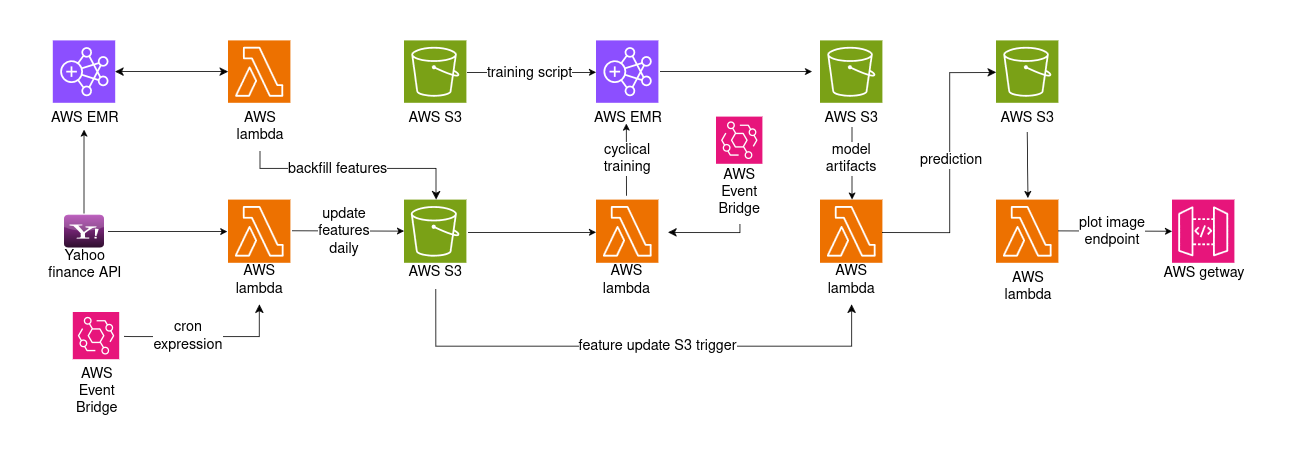
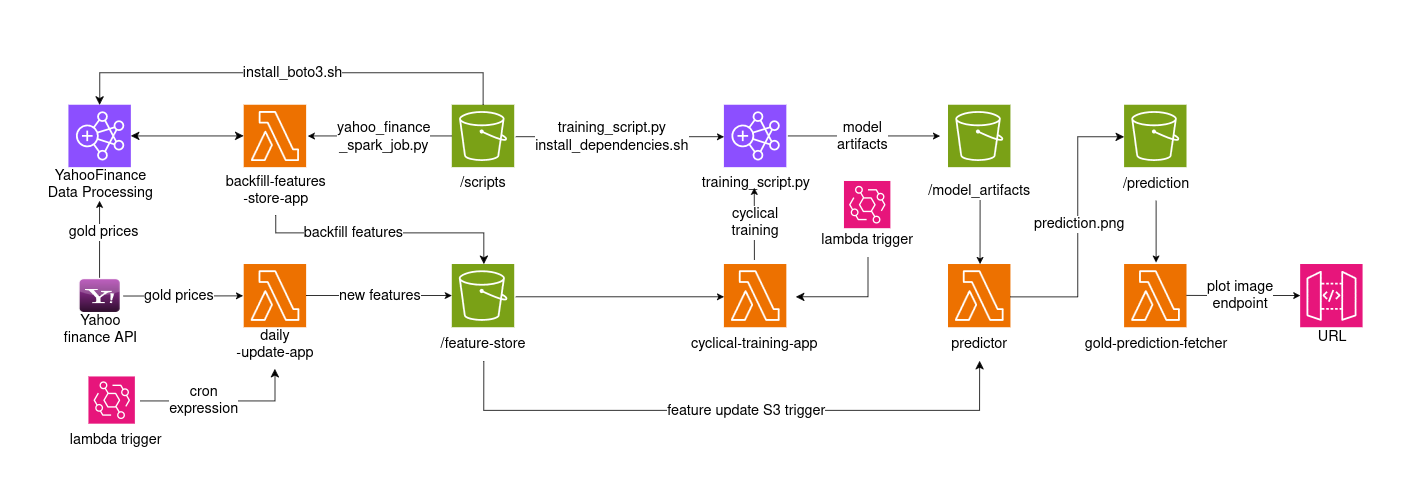
add readme + architecture map

Changed region(s): [[0.031, 0.0603, 0.9907, 0.9052], [0.743, 0.0603, 0.8669, 0.3922], [0.3406, 0.8147, 0.6811, 0.8448]]

diff --git a/predictor/app/lambda_function.py b/predictor/app/lambda_function.py
@@ -99,7 +99,7 @@ def predict(gold_model, scaler_gold):
 
 # Process gold data from parquet files in S3 directory (divided by year)
 def gold_data_processing(scaler, look_back):
-    parquet_dir = "output/"
+    parquet_dir = "feature-store/"
     local_parquet_dir = "/tmp/gold_data"
 
     if not os.path.exists(local_parquet_dir):
@@ -114,7 +114,7 @@ def gold_data_processing(scaler, look_back):
         # Generate a unique file name
         unique_file_name = f"{uuid.uuid4().hex}.parquet"
         local_file_path = os.path.join(local_parquet_dir, unique_file_name)
-        if (key != 'output/_SUCCESS'):
+        if (key != 'feature-store_SUCCESS'):
             s3_client.download_file(bucket_name, key, local_file_path)
             print(f"Downloaded {key} to {local_file_path}")
 

diff --git a/README.md b/README.md
@@ -1,0 +1,179 @@
+# Gold Prices Predictor - README
+
+## Overview
+This project predicts gold prices using a machine learning (Tensorflow) model deployed on a transient AWS EMR instance. The architecture includes:
+
+1. **ECR Repositories:**
+   - **gold-backfill-feature-store-app:** Runs an EMR job to create initial features in the bucket under `feature-store/`.
+   - **gold-daily-update-app:** Updates the feature store with data from the Yahoo Finance API.
+   - **gold-predictor-app:** Downloads the model and scaler, makes predictions, and saves them in `prediction/`.
+
+2. **Lambda Functions:**
+   - **gold-cyclical-training-app:** Runs an EMR job every 30 days to retrain the model and save artifacts in `model-artifacts/`.
+   - **gold-prediction-image-fetcher:** Fetches prediction plots from the bucket and serves them via an API Gateway.
+
+3. **S3 Bucket:**
+   - **gold-prices-predictor:** Stores scripts, data, model artifacts, and predictions.
+
+4. **Scripts (saved in `scripts/` in the bucket):**
+   - EMR job definition for `gold-backfill-feature-store-app`.
+   - Installation script for boto3.
+   - EMR script for cyclical training.
+   - Dependency installation script for model execution on EMR.
+
+5. **IAM Roles:**
+   - **EMR_EC2_DefaultRole**
+   - **EMR_DefaultRole**
+
+---
+
+## Setup Instructions
+
+### 1. **Pre-requisites**
+Ensure you have the following installed:
+- AWS CLI
+- Docker
+- Python 3.x (for local testing)
+
+### 2. **Create and Configure the S3 Bucket**
+1. Create an S3 bucket named `gold-prices-predictor` (or update references if using a different name).
+   ```bash
+   aws s3 mb s3://gold-prices-predictor
+   ```
+2. Upload the necessary scripts to the bucket:
+   ```bash
+   aws s3 cp ./scripts/emr_job_definition.py s3://gold-prices-predictor/scripts/
+   aws s3 cp ./scripts/install_boto3.sh s3://gold-prices-predictor/scripts/
+   aws s3 cp ./scripts/emr_cyclical_training.py s3://gold-prices-predictor/scripts/
+   aws s3 cp ./scripts/install_dependencies.sh s3://gold-prices-predictor/scripts/
+   ```
+
+### 3. **Set Up IAM Roles and Policies**
+1. **EMR_EC2_DefaultRole:**
+   Attach the `AmazonS3FullAccess` and `AmazonEMRRoleforEC2` policies.
+   ```bash
+   aws iam create-role --role-name EMR_EC2_DefaultRole --assume-role-policy-document file://emr_ec2_trust_policy.json
+   aws iam attach-role-policy --role-name EMR_EC2_DefaultRole --policy-arn arn:aws:iam::aws:policy/AmazonS3FullAccess
+   aws iam attach-role-policy --role-name EMR_EC2_DefaultRole --policy-arn arn:aws:iam::aws:policy/service-role/AmazonEMRRoleforEC2
+   ```
+
+2. **EMR_DefaultRole:**
+   Attach the `AmazonS3FullAccess` and `AmazonEMRFullAccessPolicy_v2` policies.
+   ```bash
+   aws iam create-role --role-name EMR_DefaultRole --assume-role-policy-document file://emr_service_role_policy.json
+   aws iam attach-role-policy --role-name EMR_DefaultRole --policy-arn arn:aws:iam::aws:policy/AmazonS3FullAccess
+   aws iam attach-role-policy --role-name EMR_DefaultRole --policy-arn arn:aws:iam::aws:policy/service-role/AmazonEMRFullAccessPolicy_v2
+   ```
+
+### 4. **Create Docker Images and Push to ECR**
+1. **Authenticate Docker to ECR:**
+   ```bash
+   aws ecr get-login-password --region <region> | docker login --username AWS --password-stdin <aws_account_id>.dkr.ecr.<region>.amazonaws.com
+   ```
+
+2. **Create ECR Repositories:**
+   ```bash
+   aws ecr create-repository --repository-name gold-backfill-feature-store-app
+   aws ecr create-repository --repository-name gold-daily-update-app
+   aws ecr create-repository --repository-name gold-predictor-app
+   ```
+3. **Build and Push Docker Images:**
+   - For `gold-backfill-feature-store-app`:
+     ```bash
+     docker build -t gold-backfill-feature-store-app .
+     docker tag gold-backfill-feature-store-app:latest <aws_account_id>.dkr.ecr.<region>.amazonaws.com/gold-backfill-feature-store-app:latest
+     docker push <aws_account_id>.dkr.ecr.<region>.amazonaws.com/gold-backfill-feature-store-app:latest
+     ```
+   - Repeat for `gold-daily-update-app` and `gold-predictor-app`.
+
+
+
+### 5. **Create and Deploy Lambda Functions**
+1. **Gold-Backfill-Feature-Store-App:**
+   - Create a Lambda function for the Docker image:
+     ```bash
+     aws lambda create-function --function-name gold-backfill-feature-store-app \
+       --package-type Image \
+       --code ImageUri=<aws_account_id>.dkr.ecr.<region>.amazonaws.com/gold-backfill-feature-store-app:latest \
+       --role <lambda_execution_role_arn>
+     ```
+
+2. **Gold-Daily-Update-App:**
+   - Create a Lambda function for the Docker image:
+     ```bash
+     aws lambda create-function --function-name gold-daily-update-app \
+       --package-type Image \
+       --code ImageUri=<aws_account_id>.dkr.ecr.<region>.amazonaws.com/gold-daily-update-app:latest \
+       --role <lambda_execution_role_arn>
+     ```
+
+3. **Gold-Predictor-App:**
+   - Create a Lambda function for the Docker image:
+     ```bash
+     aws lambda create-function --function-name gold-predictor-app \
+       --package-type Image \
+       --code ImageUri=<aws_account_id>.dkr.ecr.<region>.amazonaws.com/gold-predictor-app:latest \
+       --role <lambda_execution_role_arn>
+     ```
+
+4. **Gold-Cyclical-Training-App:**
+   - Zip the function and upload it to Lambda:
+     ```bash
+     zip gold-cyclical-training-app.zip cyclical_training.py
+     aws lambda create-function --function-name gold-cyclical-training-app \
+       --runtime python3.x \
+       --role <lambda_execution_role_arn> \
+       --handler cyclical_training.lambda_handler \
+       --zip-file fileb://gold-cyclical-training-app.zip
+     ```
+
+5. **Gold-Prediction-Image-Fetcher:**
+   - Zip the function and upload it to Lambda:
+     ```bash
+     zip gold-prediction-image-fetcher.zip prediction_image_fetcher.py
+     aws lambda create-function --function-name gold-prediction-image-fetcher \
+       --runtime python3.x \
+       --role <lambda_execution_role_arn> \
+       --handler prediction_image_fetcher.lambda_handler \
+       --zip-file fileb://gold-prediction-image-fetcher.zip
+     ```
+
+6. **Add Trigger for Gold-Predictor-App:**
+   - Add an S3 event trigger for the `gold-predictor-app` Lambda function to execute when new parquet data is added to the `feature-store/` directory:
+     ```bash
+     aws s3api put-bucket-notification-configuration --bucket gold-prices-predictor --notification-configuration '{
+       "LambdaFunctionConfigurations": [
+         {
+           "LambdaFunctionArn": "<gold_predictor_lambda_arn>",
+           "Events": ["s3:ObjectCreated:Put"],
+           "Filter": {
+             "Key": {
+               "FilterRules": [
+                 {
+                   "Name": ".parquet",
+                   "Value": "feature-store/"
+                 }
+               ]
+             }
+           }
+         }
+       ]
+     }'
+     ```
+
+### 6. **Deploy and Test the System**
+1. Add the necessary environment variables to the lambda functions.
+2. Add cron expression triggers through AWS EventBridge in order to run the daily updates and the monthly retraining.
+3. Trigger the `gold-backfill-feature-store-app` to generate initial features in the S3 bucket.
+4. Run `gold-daily-update-app` to update features with new data from Yahoo Finance.
+5. Use `gold-predictor-app` to generate predictions and save results in `prediction/`.
+6. Trigger `gold-cyclical-training-app` for model retraining and storing artifacts in `model-artifacts/`.
+7. Test the API Gateway connected to `gold-prediction-image-fetcher` for fetching plots.
+
+---
+
+## Notes
+- Ensure all IAM roles have the correct trust relationships to allow Lambda and EMR services to assume them.
+- Replace placeholders (e.g., `<region>`, `<aws_account_id>`, `<lambda_execution_role_arn>`) with appropriate values.
+- Monitor CloudWatch logs for debugging and performance insights.
+
